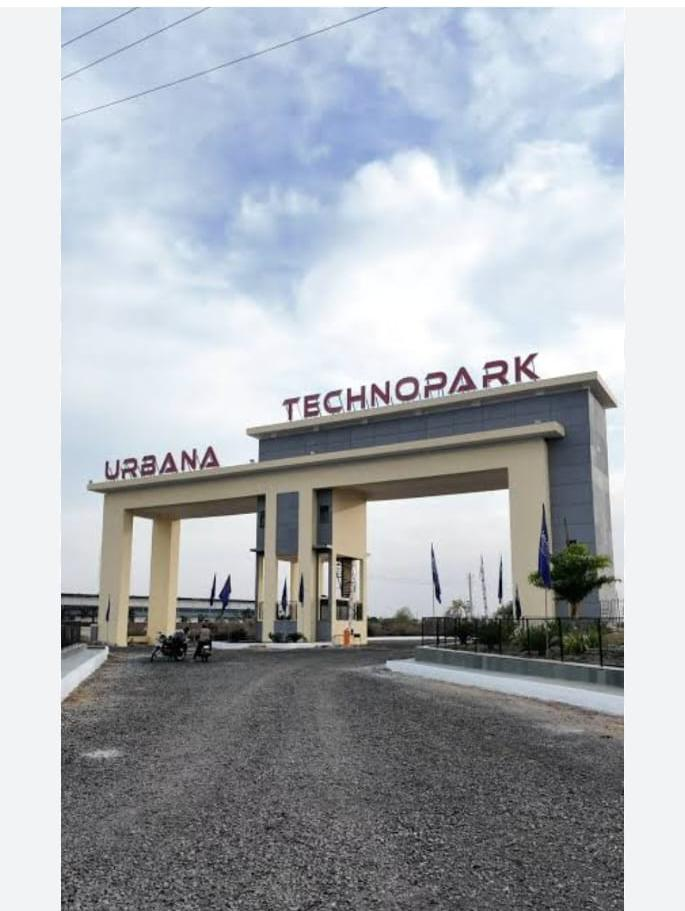
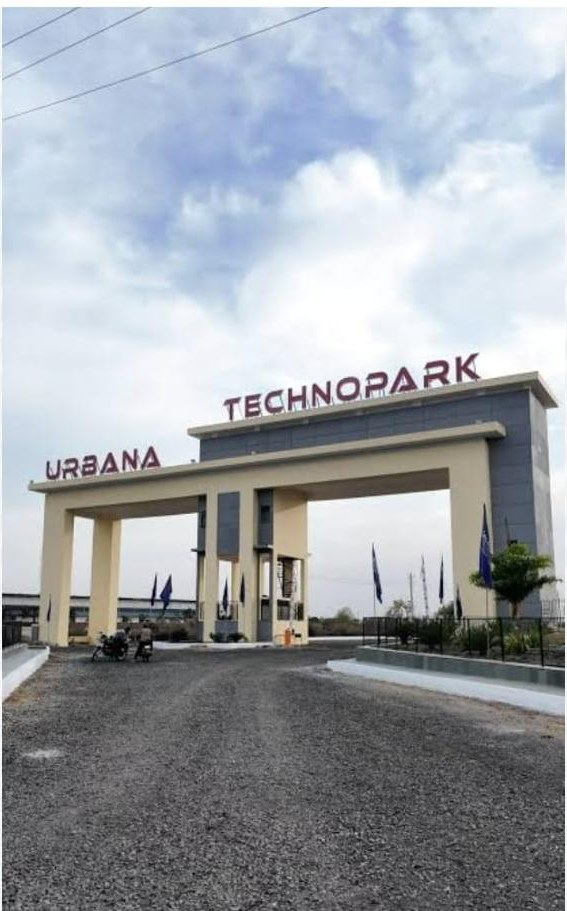
All changes related to Mobile app and images

diff --git a/assets/css/site.css b/assets/css/site.css
@@ -423,7 +423,7 @@ a:hover { color: var(--color-accent-600); }
 .spread--flip { grid-template-columns: minmax(0,1fr) minmax(0,1.1fr); }
 
 .plate { margin: 0; }
-.plate img { width: 100%; display: block; object-fit: cover; }
+.plate img { width: 100%; height: auto; display: block; object-fit: cover; }
 .plate--43 img { aspect-ratio: 4/3; }
 
 /* Awaiting a client photograph. Delete the modifier — not just the caption —
@@ -443,7 +443,7 @@ a:hover { color: var(--color-accent-600); }
 /* ── project cards (Completed) ───────────────────────────────────────── */
 .project-card { padding: 0; overflow: hidden; }
 .project-card > img {
-  width: 100%; display: block;
+  width: 100%; height: auto; display: block;
   aspect-ratio: 3/2; object-fit: cover;
 }
 .project-card-body { padding: var(--space-6); }
@@ -596,6 +596,19 @@ a:hover { color: var(--color-accent-600); }
     padding: var(--space-4) 0 var(--space-2);
   }
   .nav-toggle:checked ~ .site-nav { display: flex; }
+  /* Stacked items are tapped, not hovered: pad each to a 44px target. */
+  .site-nav a { display: block; width: 100%; padding-block: 11px; }
+
+  /* Touch targets: 44px minimum on everything tappable (WCAG 2.5.8 / Apple
+     HIG). The design-system .btn is 37px tall and the footer links 23px.
+     Lives in this query, not the 600px one, because a phone held sideways is
+     844px wide and still a touch device. */
+  .btn { min-height: 44px; }
+  .hero-actions .btn { padding-inline: var(--space-4); }
+  .footer-links { gap: 0; }
+  .footer-links a, .footer-reach a { padding-block: 10px; }
+  .link-more, .contact-map-link, .site-footer-bar a { display: inline-block; padding-block: 10px; }
+  .contact-line { min-height: 44px; }
   /* A bottom border on a stacked item reads as a stray rule, not as "current". */
   .site-nav a[aria-current="page"] { border-bottom: 0; }
 }
@@ -618,8 +631,17 @@ a:hover { color: var(--color-accent-600); }
   .section { padding-block: var(--gap-page-tight); }
   .spreads { gap: var(--gap-page); }
   /* A shorter hero on narrow screens means a less punishing side crop.
-     min-height is inherited from the base rule. */
-  .hero--home { height: 72svh; }
+     Height is a floor, not a fixed size: the hero is overflow:hidden and
+     bottom-aligned, so a fixed 72svh on a 667px-tall phone (480px) was
+     shorter than the copy block (588px) and clipped the CTA buttons while
+     pushing the kicker up under the fixed header. Letting the copy set the
+     height means it can never be cut off, whatever the viewport. */
+  .hero--home    { height: auto; min-height: 72svh; }
+  .hero--sub     { height: auto; min-height: 52svh; }
+  .hero--contact { height: auto; min-height: 46svh; }
+  /* On a phone the header holds the only navigation; a 4.4s reveal leaves the
+     visitor with no way off the page. Keep the entrance, shorten the wait. */
+  .site-header--home { animation-delay: .9s; animation-duration: 1.2s; }
 }
 
 @media (max-width: 600px) {
@@ -632,6 +654,15 @@ a:hover { color: var(--color-accent-600); }
   .stats { grid-template-columns: repeat(auto-fit, minmax(88px, 1fr)); gap: var(--space-4); }
   .stat-figure { font-size: 2rem; }
   .hero-scroll { display: none; }
+
+  /* The desktop clamp floors at 2.7rem, which on a 360px phone runs the
+     three-line title to 133px and leaves no room for the lede and buttons
+     inside a 72svh hero. 11vw keeps the same three lines at a size the
+     viewport can actually hold. */
+  .hero--home .hero-title { font-size: clamp(2.3rem, 11vw, 3.2rem); }
+  .hero-lede { font-size: 1rem; line-height: 1.7; margin-bottom: var(--space-6); }
+  .hero-rule { margin-block: var(--space-4); }
+  .hero--home .hero-copy { padding-bottom: var(--space-8); }
 
   /* Full-width pills would span the viewport, so collapse to icon circles. */
   .contact-dock { gap: var(--space-2); }

diff --git a/completed-projects.html b/completed-projects.html
@@ -245,7 +245,7 @@
       </article>
 
       <article class="card project-card" data-reveal>
-        <img src="assets/photo-talwandi-1.jpg" alt="Aerial view of a multi-lane road and elevated flyover through a residential quarter of Kota" loading="lazy" width="1200" height="800">
+        <img src="assets/photo-talwandi-1.jpg" alt="Aerial view of a multi-lane road and elevated flyover through a residential quarter of Kota" loading="lazy">
         <div class="project-card-body">
           <p class="meta meta--fig">2021&ndash;23 &nbsp;·&nbsp; UIT, Kota</p>
           <h2 class="h-card">Roads at Talwandi &amp; Jawahar Nagar</h2>

diff --git a/ongoing-projects.html b/ongoing-projects.html
@@ -194,7 +194,7 @@
 
       <article class="spread" data-reveal>
         <figure class="plate plate--43">
-          <img src="assets/photo-bhilwara-1.jpg" alt="Aerial view of the Golcha Group industrial township at Bhilwara with internal roads, factory sheds and wind turbines" loading="lazy" width="1200" height="900">
+          <img src="assets/photo-bhilwara-1.jpg" alt="Aerial view of the Golcha Group industrial township at Bhilwara with internal roads, factory sheds and wind turbines" loading="lazy">
         </figure>
         <div>
           <p class="meta">Bhilwara &nbsp;·&nbsp; Golcha Group</p>
